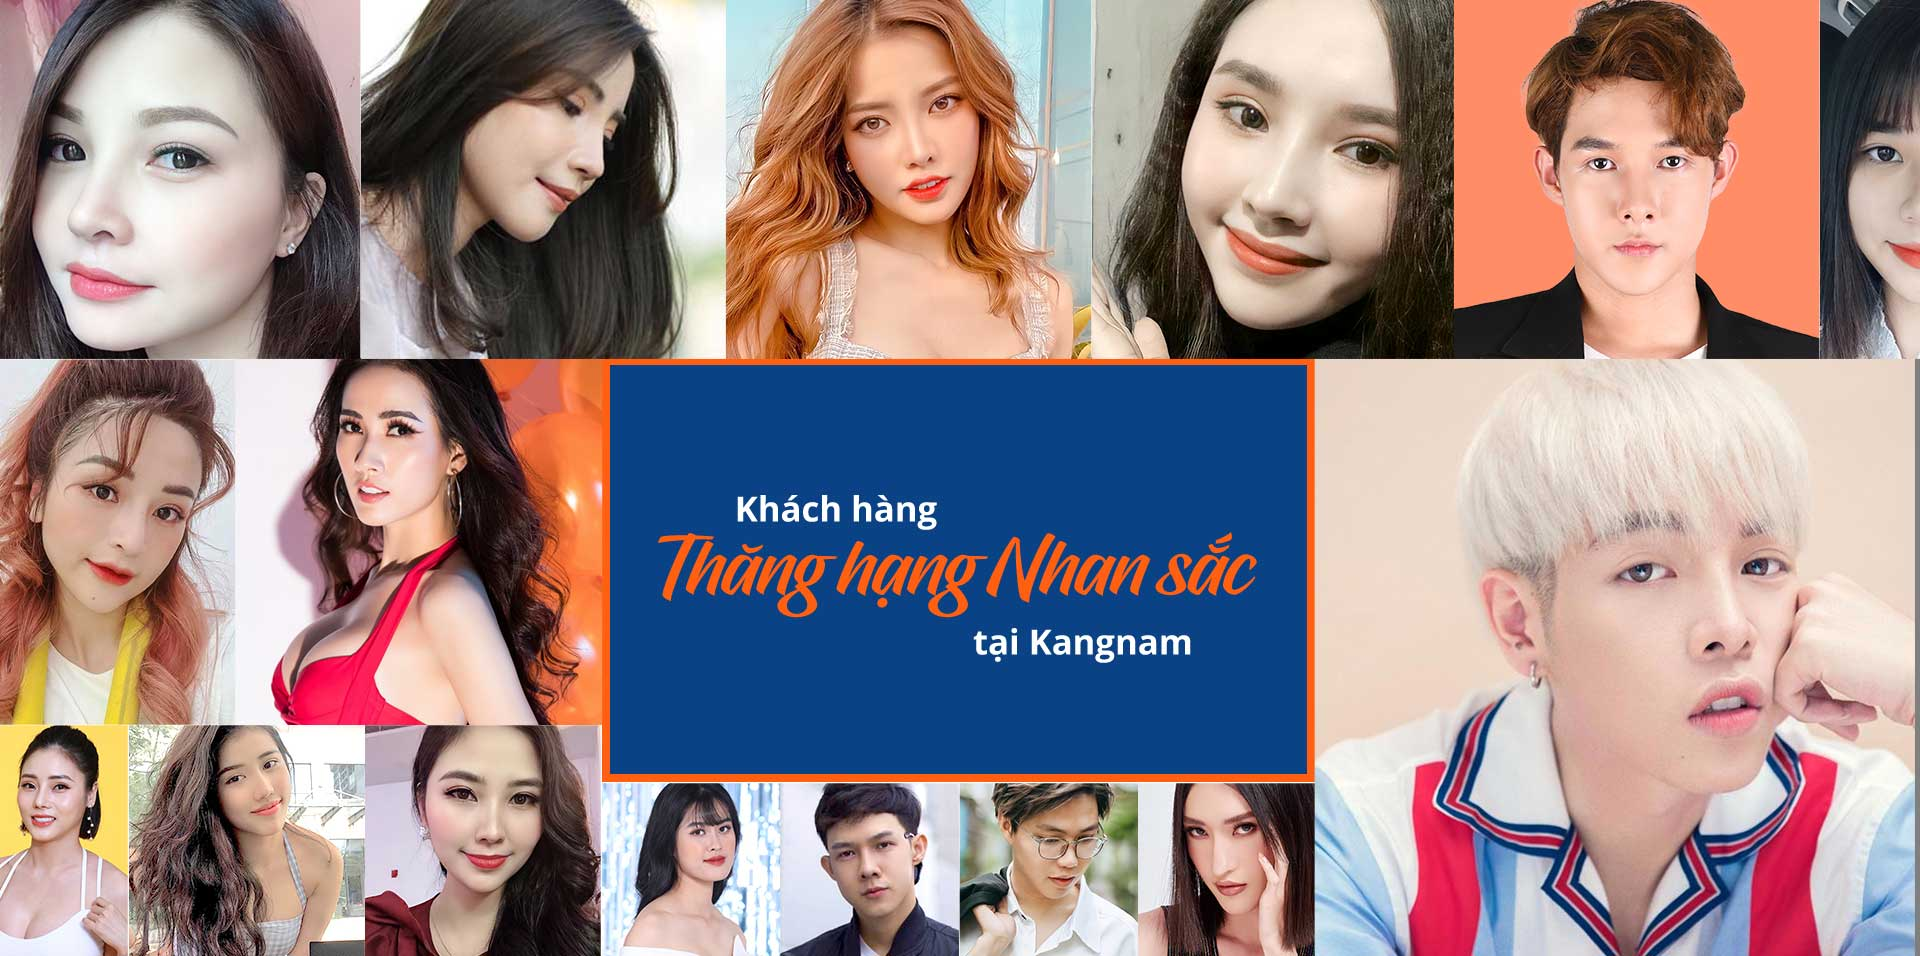
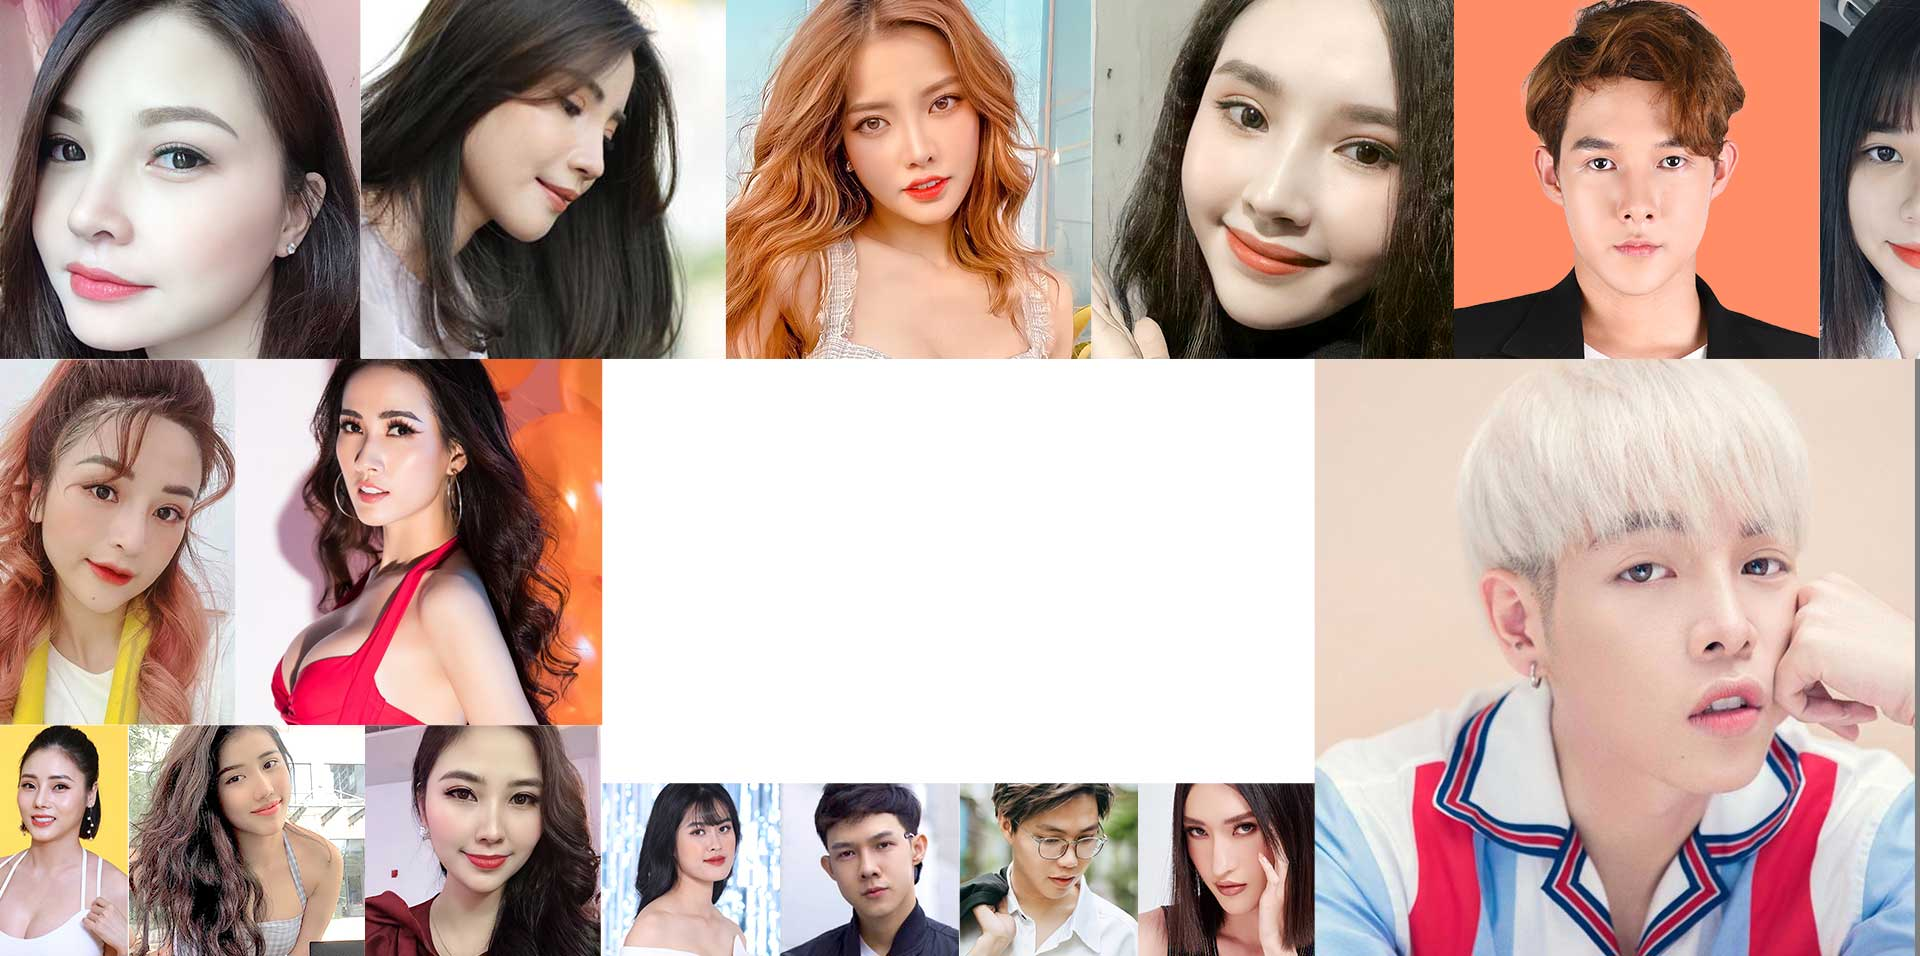
update

Changed region(s): [[0.3125, 0.364, 0.6875, 0.819]]

diff --git a/Home/person_12_0_0/sass/person_12_0_0.scss b/Home/person_12_0_0/sass/person_12_0_0.scss
@@ -1,36 +1,68 @@
 .person_12_0_0 {
-    &-pc {
-        width: 100%;
-    }
-    &-mb {
-        display: none;
+    &__container {
         position: relative;
     }
-    &__title {
-        width: 100%;
-        display: block;
-    }
     &__person {
-        position: absolute;
-        top: 180px;
+        display: block;
         width: 100%;
-        img {
-            display: block;
-            width: 100%;
+    }
+    &__box {
+        position: absolute;
+        display: flex;
+        justify-content: center;
+        align-items: center;
+        top: 0;
+        width: 100%;
+        height: 100%;
+        &-img {
+            max-width: 80%;
         }
     }
-    @media (max-width: 540px) {
-        &-pc {
-            display: none;
-        }
-        &-mb {
-            display: block;
-            width: 100%;
+    &__title {
+        background-color: #0a4285;
+        width: 50%;
+        display: flex;
+        align-items: center;
+        justify-content: center;
+        transform: translateY(18%);
+        height: 50%;
+        border: 3px solid #ff5f11;
+        &-img {
+            max-width: 81%;
         }
     }
-    @media (max-width:320px) {
+    @media (max-width:540px) {
+        &__container {
+            padding: 0;
+        }
         &__person {
-            top: 140px
+            position: absolute;
+            top: 220px;
+            padding: 0 20px;
+        }
+        &__box {
+            width: 100%;
+            height: fit-content;
+            z-index: -1;
+        }
+        &__title {
+            width: 100%;
+            height: 100%;
+            transform: unset;
+            padding: 70px 20px;
+        }
+    }
+    @media (max-width: 425px) {
+        &__person {
+            top: 180px;
+        }
+    }
+    @media (max-width: 320px) {
+        &__person {
+            top: 120px;
+        }
+        &__title {
+            padding: 50px 20px;
         }
     }
 }

diff --git a/Home/person_12_0_0/css/person_12_0_0.css b/Home/person_12_0_0/css/person_12_0_0.css
@@ -1,2 +1,2 @@
-.person_12_0_0-pc{width:100%}.person_12_0_0-mb{display:none;position:relative}.person_12_0_0__title{width:100%;display:block}.person_12_0_0__person{position:absolute;top:180px;width:100%}.person_12_0_0__person img{display:block;width:100%}@media (max-width: 540px){.person_12_0_0-pc{display:none}.person_12_0_0-mb{display:block;width:100%}}@media (max-width: 320px){.person_12_0_0__person{top:140px}}
+.person_12_0_0__container{position:relative}.person_12_0_0__person{display:block;width:100%}.person_12_0_0__box{position:absolute;display:flex;justify-content:center;align-items:center;top:0;width:100%;height:100%}.person_12_0_0__box-img{max-width:80%}.person_12_0_0__title{background-color:#0a4285;width:50%;display:flex;align-items:center;justify-content:center;transform:translateY(18%);height:50%;border:3px solid #ff5f11}.person_12_0_0__title-img{max-width:81%}@media (max-width: 540px){.person_12_0_0__container{padding:0}.person_12_0_0__person{position:absolute;top:220px;padding:0 20px}.person_12_0_0__box{width:100%;height:fit-content;z-index:-1}.person_12_0_0__title{width:100%;height:100%;transform:unset;padding:70px 20px}}@media (max-width: 425px){.person_12_0_0__person{top:180px}}@media (max-width: 320px){.person_12_0_0__person{top:120px}.person_12_0_0__title{padding:50px 20px}}
 /*# sourceMappingURL=person_12_0_0.css.map */

diff --git a/Home/person_12_0_0/index.html b/Home/person_12_0_0/index.html
@@ -15,13 +15,17 @@
 
 <body>
     <section class="person_12_0_0">
-        <div class="person_12_0_0-pc container">
-            <img class="person_12_0_0-pc" src='images/person-pc.jpg' alt='' />
-        </div>
-        <div class="person_12_0_0-mb">
-            <img class="person_12_0_0__title" src="images/tt-mb.jpg" />
-            <div class="person_12_0_0__person container">
-                <img src='images/person-mb.jpg' alt='' />
+        <div class="person_12_0_0__container container">
+
+            <picture>
+                <source media="(max-width:540px) " srcset="images/person-mb.jpg">
+                <img class="person_12_0_0__person" src="images/person-pc.jpg">
+
+            </picture>
+            <div class="person_12_0_0__box">
+                <div class="person_12_0_0__title">
+                    <img src='images/person-title.png' class="person_12_0_0__title-img" />
+                </div>
             </div>
         </div>
     </section>
